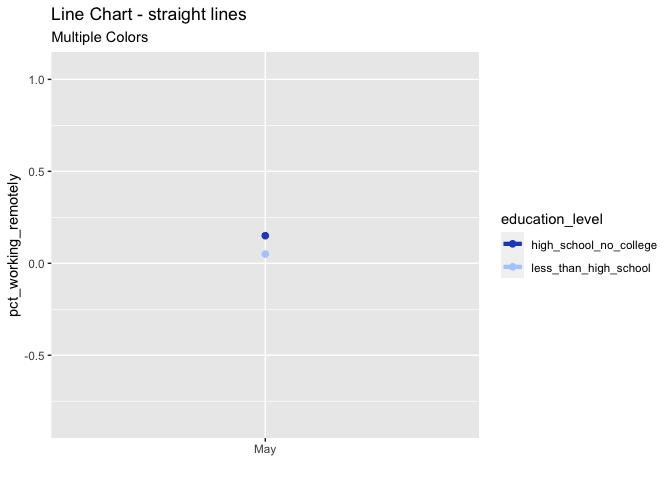
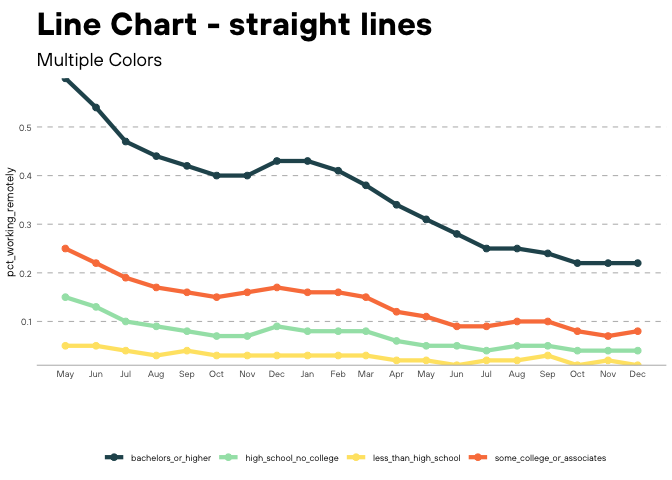
fix readme

diff --git a/README.md b/README.md
@@ -38,6 +38,7 @@ library(tidyverse)
 #> x dplyr::lag()    masks stats::lag()
 library(coriplot)
 
+theme_set(theme_cori())
 
 fig <- remote_work_by_ed_level %>%
   ggplot(aes(as.Date(date),
@@ -46,11 +47,11 @@ fig <- remote_work_by_ed_level %>%
              color = education_level)) +
   geom_line(lwd = 1.5) +
   xlab("Some Time") +
-  labs(title = "This should not exceet\nMore than two lines",
+  labs(title = "This should not exceed\nMore than two lines",
        subtitle = "Some random subtitle",
        caption = "This image is not mine",
        tag = "1st") +
-  scale_x_date(date_breaks = "1 month", date_labels =  "%b %Y") + 
+  scale_x_date(date_breaks = "1 month", date_labels =  "%b") + 
   scale_y_continuous(expand = c(0, 0), limits = c(0,NA))+
   scale_color_cori(cori_primary) 
 
@@ -62,19 +63,17 @@ fig
 abhishek’s workspace
 
 ``` r
-fig <- remote_work_by_ed_level[1:2,] %>%
+fig <- remote_work_by_ed_level %>%
   ggplot(aes(as.Date(date), pct_working_remotely, group = education_level, color = education_level)) +
   geom_line(lwd = 1.5) +
   xlab("") +
   scale_x_date(date_breaks = "1 month", date_labels =  "%b") + 
-  scale_y_continuous(expand = c(0, 1)) +
+  scale_y_continuous(expand = c(0, 0)) +
   geom_point(size = 2)+
   ggtitle("Line Chart - straight lines") +
   labs(subtitle = "Multiple Colors")+
-  scale_color_cori(cori_blue) 
+  scale_color_cori() 
 fig 
-#> geom_path: Each group consists of only one observation. Do you need to adjust
-#> the group aesthetic?
 ```
 
 <img src="man/figures/README-example2-1.png" width="100%" />
